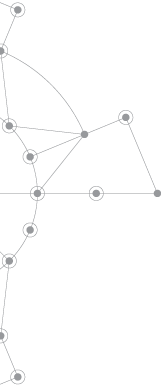
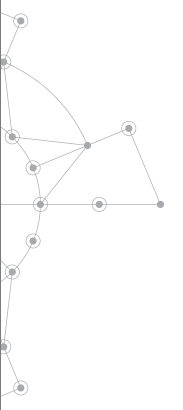
Left compass bigger.

diff --git a/sites/mainframe50/css/ww_cci.css b/sites/mainframe50/css/ww_cci.css
@@ -378,8 +378,8 @@ sites/
 
 #ibm-story-graphic {
   background: url("../i/eop-leftbg.png") no-repeat transparent !important;
-  height: 388px;
-  width: 164px;
+  height: 410px;
+  width: 183px;
   position: absolute;
   top: 188px;
 }

diff --git a/sites/mainframe50/css/scss/_ww_cci.scss b/sites/mainframe50/css/scss/_ww_cci.scss
@@ -364,8 +364,8 @@
 
 #ibm-story-graphic {
 	background: url("../i/eop-leftbg.png") no-repeat transparent !important;
-    height: 388px;
-	width: 164px;
+    height: 410px;
+	width: 183px;
     position: absolute;
     top: 188px;
 }
